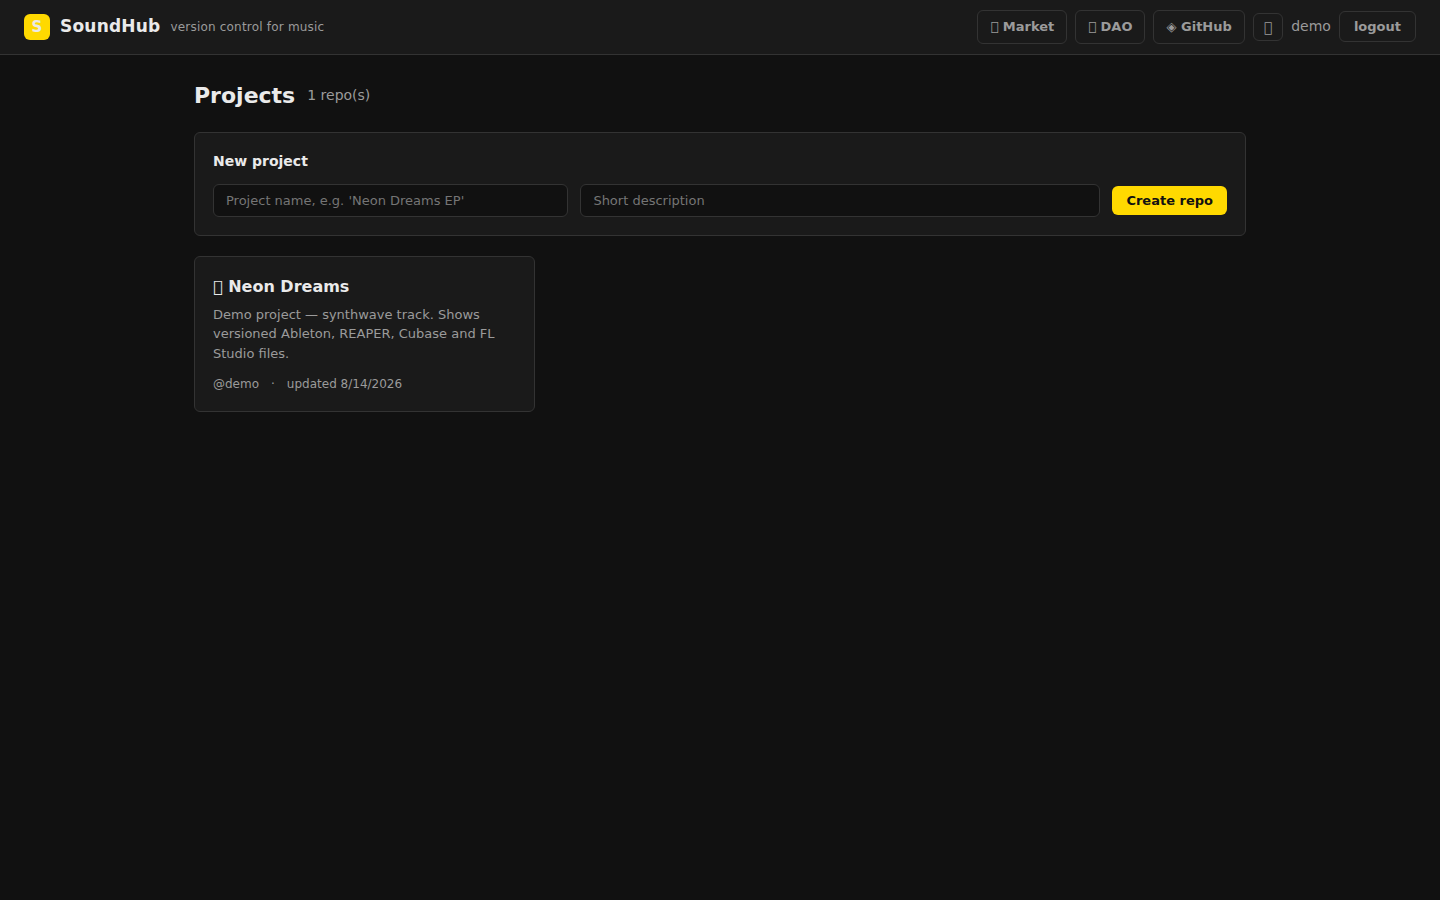
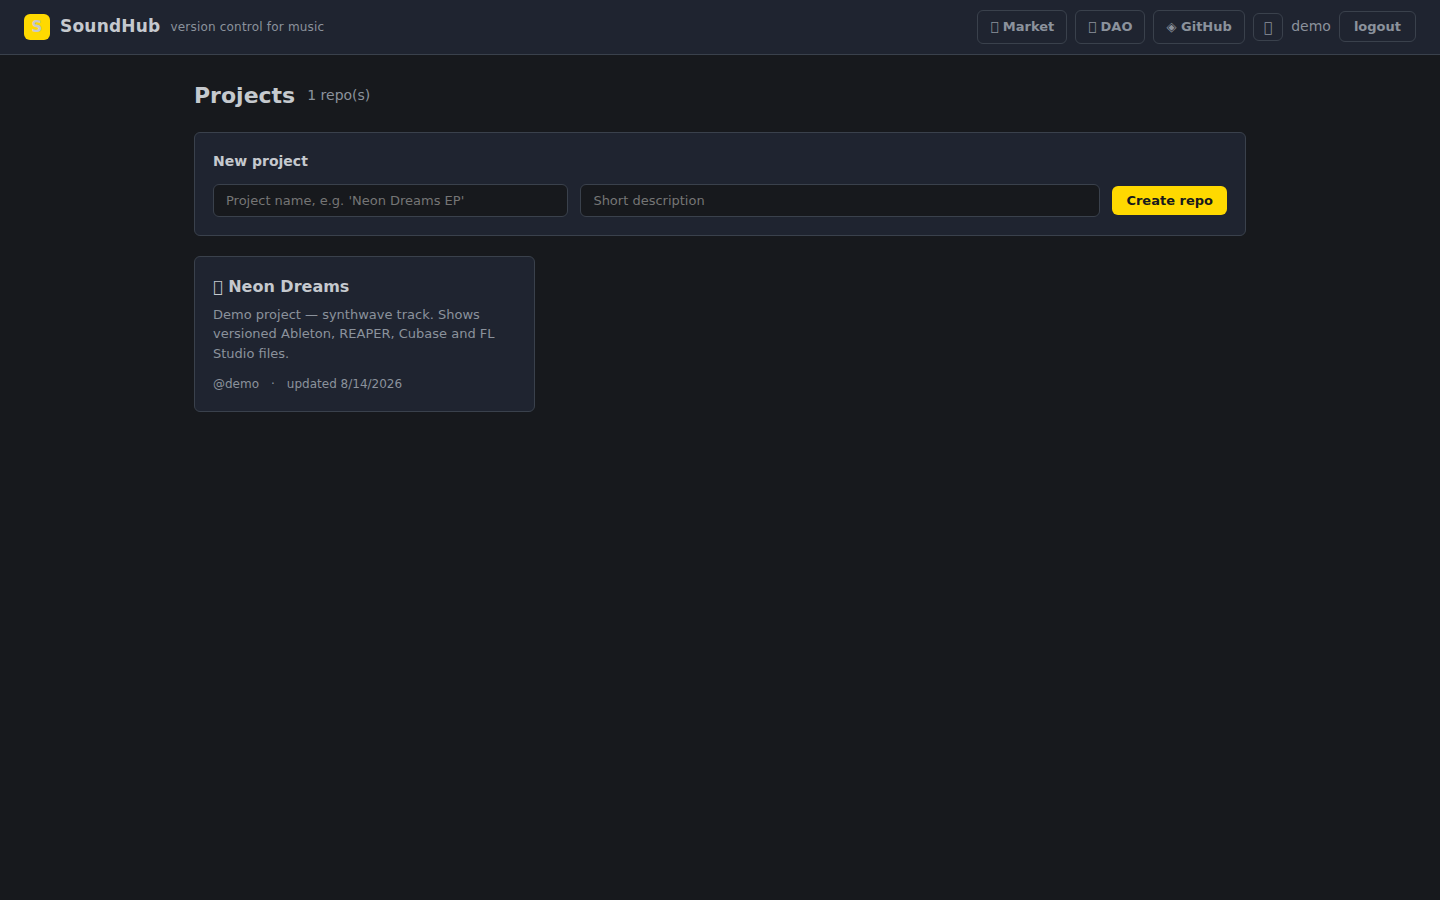
Ableton palette from the reference screenshot (cool blue-grays)
Extracted the exact colors from Снимок экрана 2026-08-14 145938.png:
page #A2A7AF, panels #C2C6CC, dark slate text #1F2430, yellow as
sparse accent. Both themes now use the reference palette;
screenshots refreshed.

🤖 Generated with Codebuff

diff --git a/frontend/src/styles.css b/frontend/src/styles.css
@@ -4,47 +4,48 @@
    Dark theme mirrors GitHub Dark with the same yellow accents.
    ========================================================================== */
 
-/* Ableton grayscale palette — different shades of gray for every surface;
-   the signature yellow is reserved for accents (primary buttons, logo). */
+/* Ableton palette extracted from the reference screenshot
+   (Снимок экрана 2026-08-14 145938.png): cool blue-grays for every
+   surface, dark slate (#1F2430) for text, yellow kept as sparse accent. */
 
 :root,
 :root[data-theme="light"] {
-  --bg: #f2f2f2;          /* page */
-  --bg2: #ffffff;         /* panels, header */
-  --bg3: #e8e8e8;         /* hover, inputs */
-  --bg4: #d9d9d9;         /* pressed / strong hover */
-  --border: #cfcfcf;
-  --text: #171717;
-  --muted: #6f6f6f;
-  --accent: #ffd900;      /* Ableton yellow — accents only */
-  --accent-hover: #f2cf00;
-  --accent-text: #171717; /* near-black on yellow */
-  --link: #3f3f3f;        /* monochrome links */
-  --green: #2e7d32;
-  --red: #c62828;
+  --bg: #a2a7af;          /* page — dominant gray from the screenshot */
+  --bg2: #c2c6cc;         /* panels, header */
+  --bg3: #b4b9c0;         /* hover, inputs */
+  --bg4: #8c919b;         /* pressed / strong hover */
+  --border: #7c818d;
+  --text: #1f2430;        /* dark slate text */
+  --muted: #454b54;
+  --accent: #ffd900;      /* Ableton yellow — sparse accent */
+  --accent-hover: #f0cf00;
+  --accent-text: #171717;
+  --link: #262c38;
+  --green: #3e7a46;
+  --red: #b3382f;
   --yellow: #ffd900;
-  --code-bg: #f5f5f5;
-  --shadow: 0 1px 3px rgba(23, 23, 23, 0.08);
+  --code-bg: #b9bec5;
+  --shadow: 0 1px 3px rgba(31, 36, 48, 0.25);
   --tab-active-border: #ffd900;
 }
 
 :root[data-theme="dark"] {
-  --bg: #111111;
-  --bg2: #1a1a1a;
-  --bg3: #242424;
-  --bg4: #2e2e2e;
-  --border: #333333;
-  --text: #eaeaea;
-  --muted: #9b9b9b;
+  --bg: #17191d;
+  --bg2: #1f2430;         /* the screenshot's dark slate */
+  --bg3: #2a303a;
+  --bg4: #343b47;
+  --border: #3a414c;
+  --text: #c5c9ce;
+  --muted: #8b929c;
   --accent: #ffd900;
   --accent-hover: #ffe033;
-  --accent-text: #111111;
-  --link: #d6d6d6;        /* light monochrome links */
-  --green: #6ccb6c;
-  --red: #ef6a5a;
+  --accent-text: #17191d;
+  --link: #d5d9de;
+  --green: #7bc97f;
+  --red: #e57468;
   --yellow: #ffd900;
-  --code-bg: #141414;
-  --shadow: 0 1px 3px rgba(0, 0, 0, 0.6);
+  --code-bg: #14161a;
+  --shadow: 0 1px 3px rgba(0, 0, 0, 0.55);
   --tab-active-border: #ffd900;
 }
 
